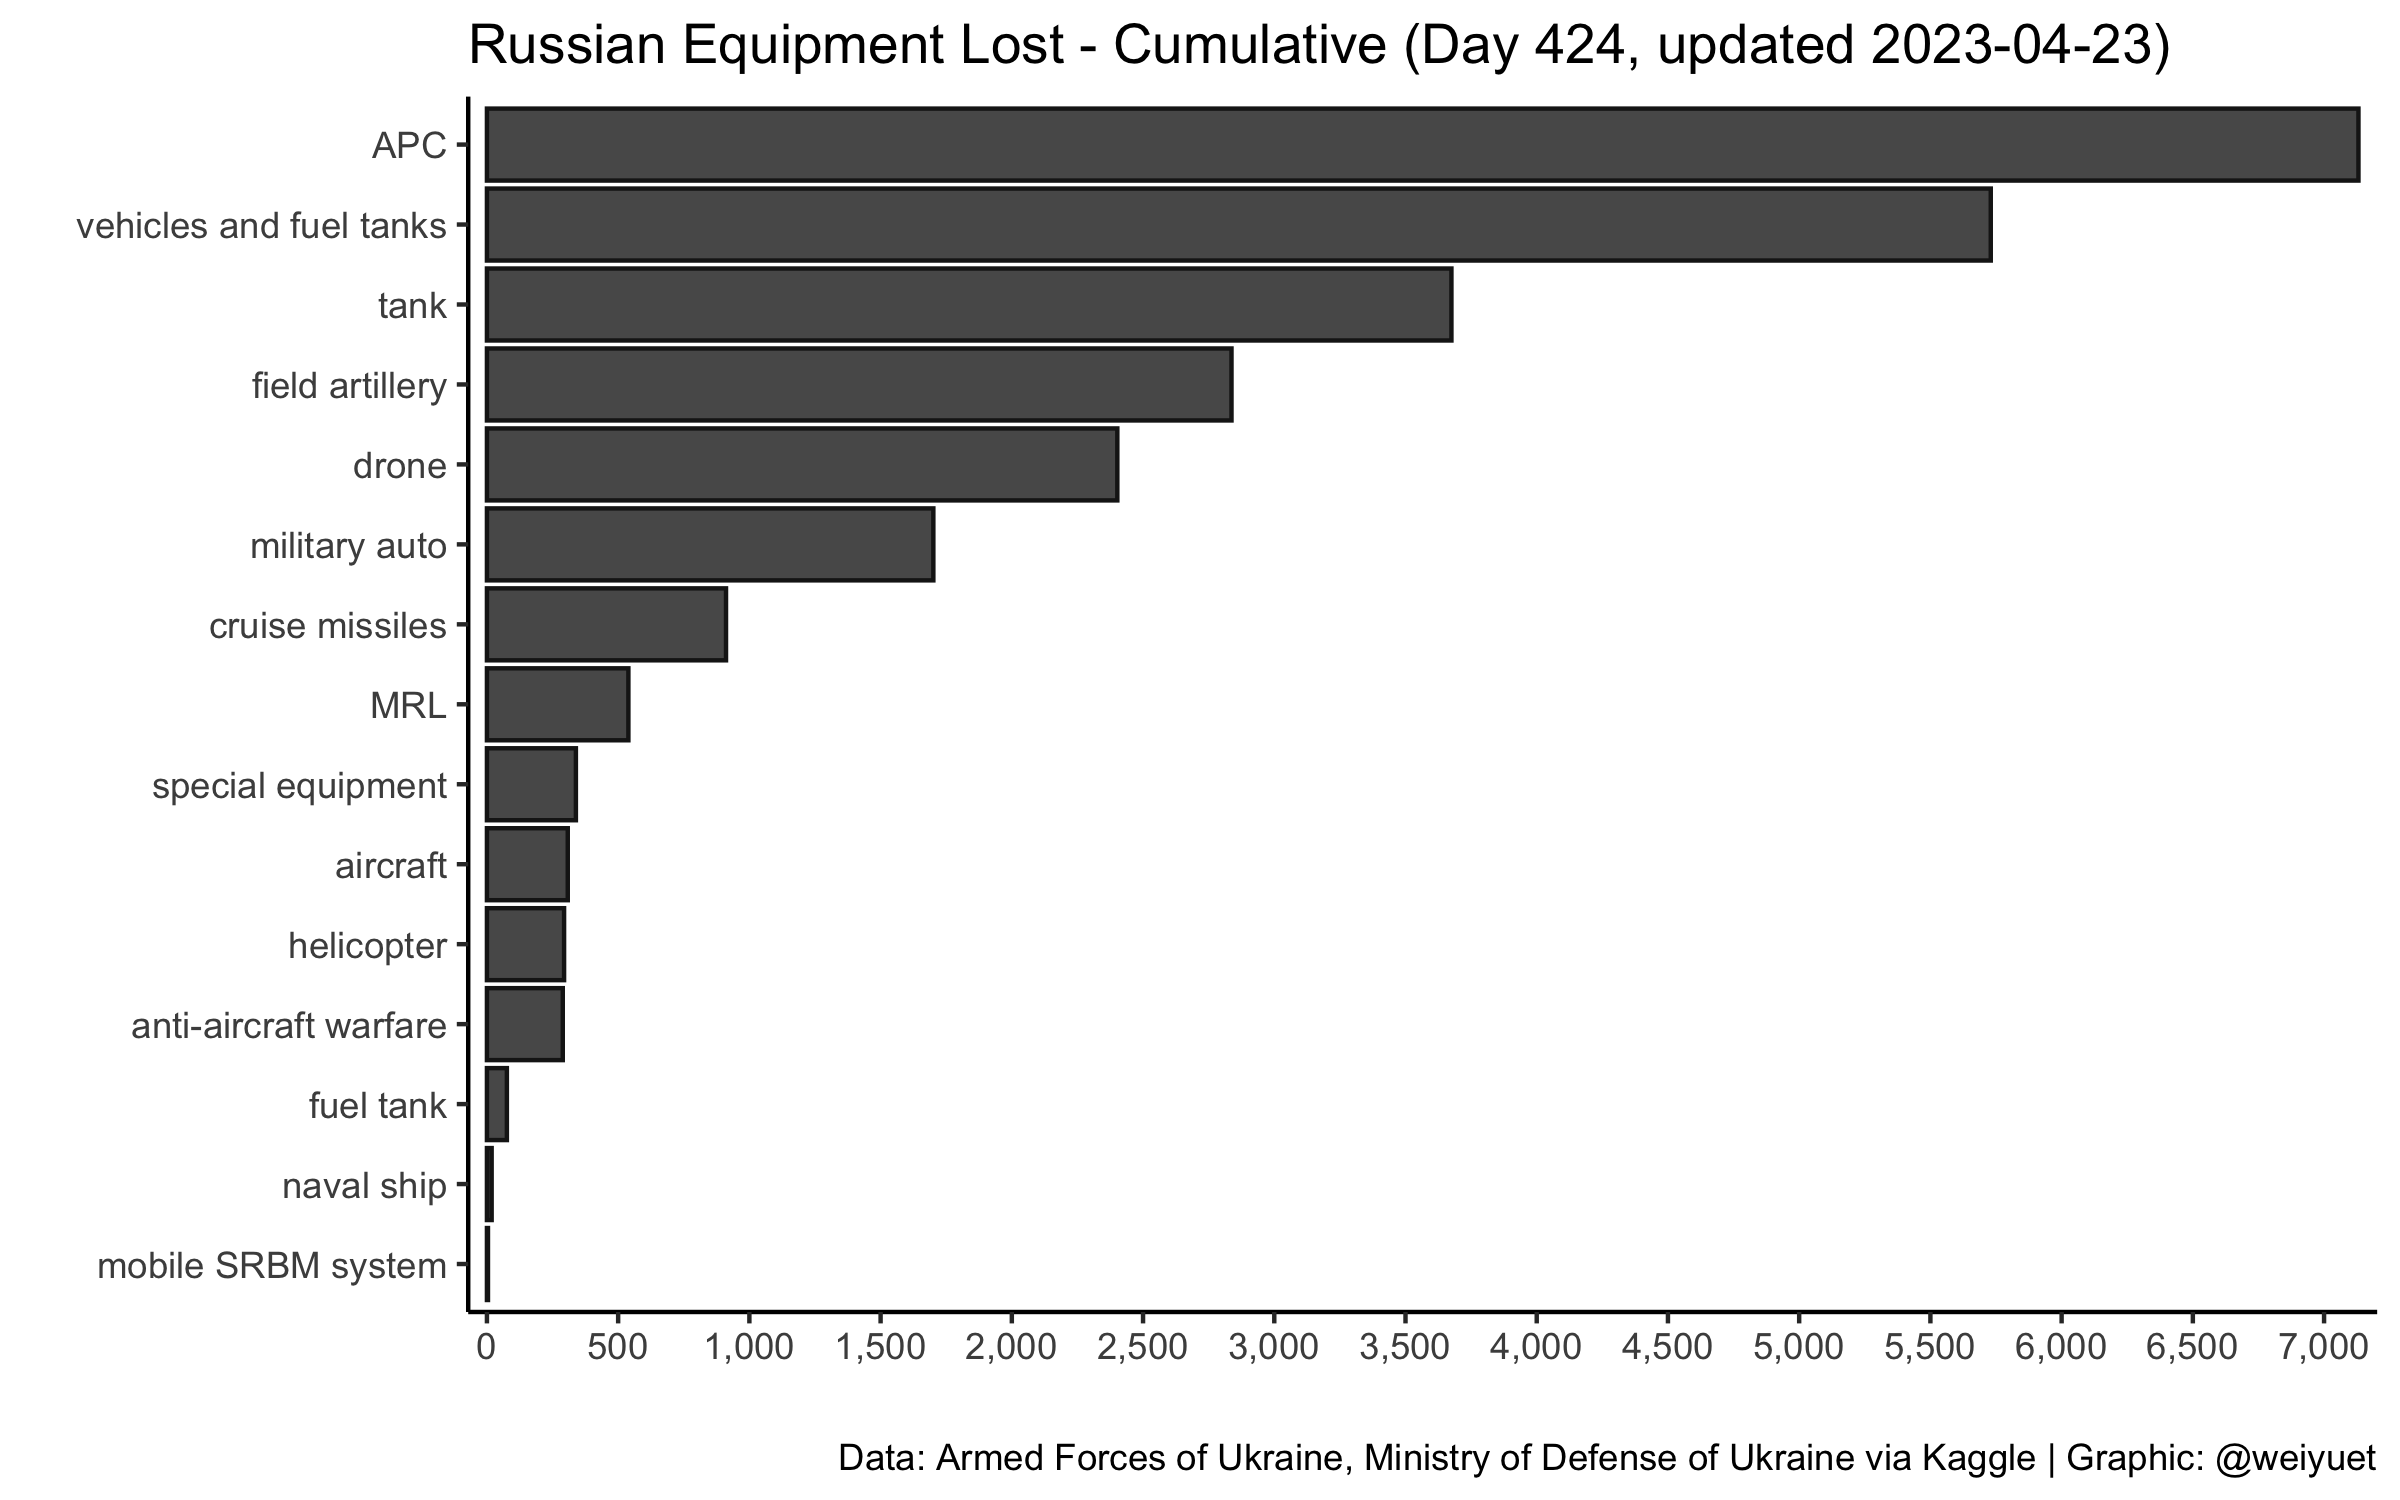
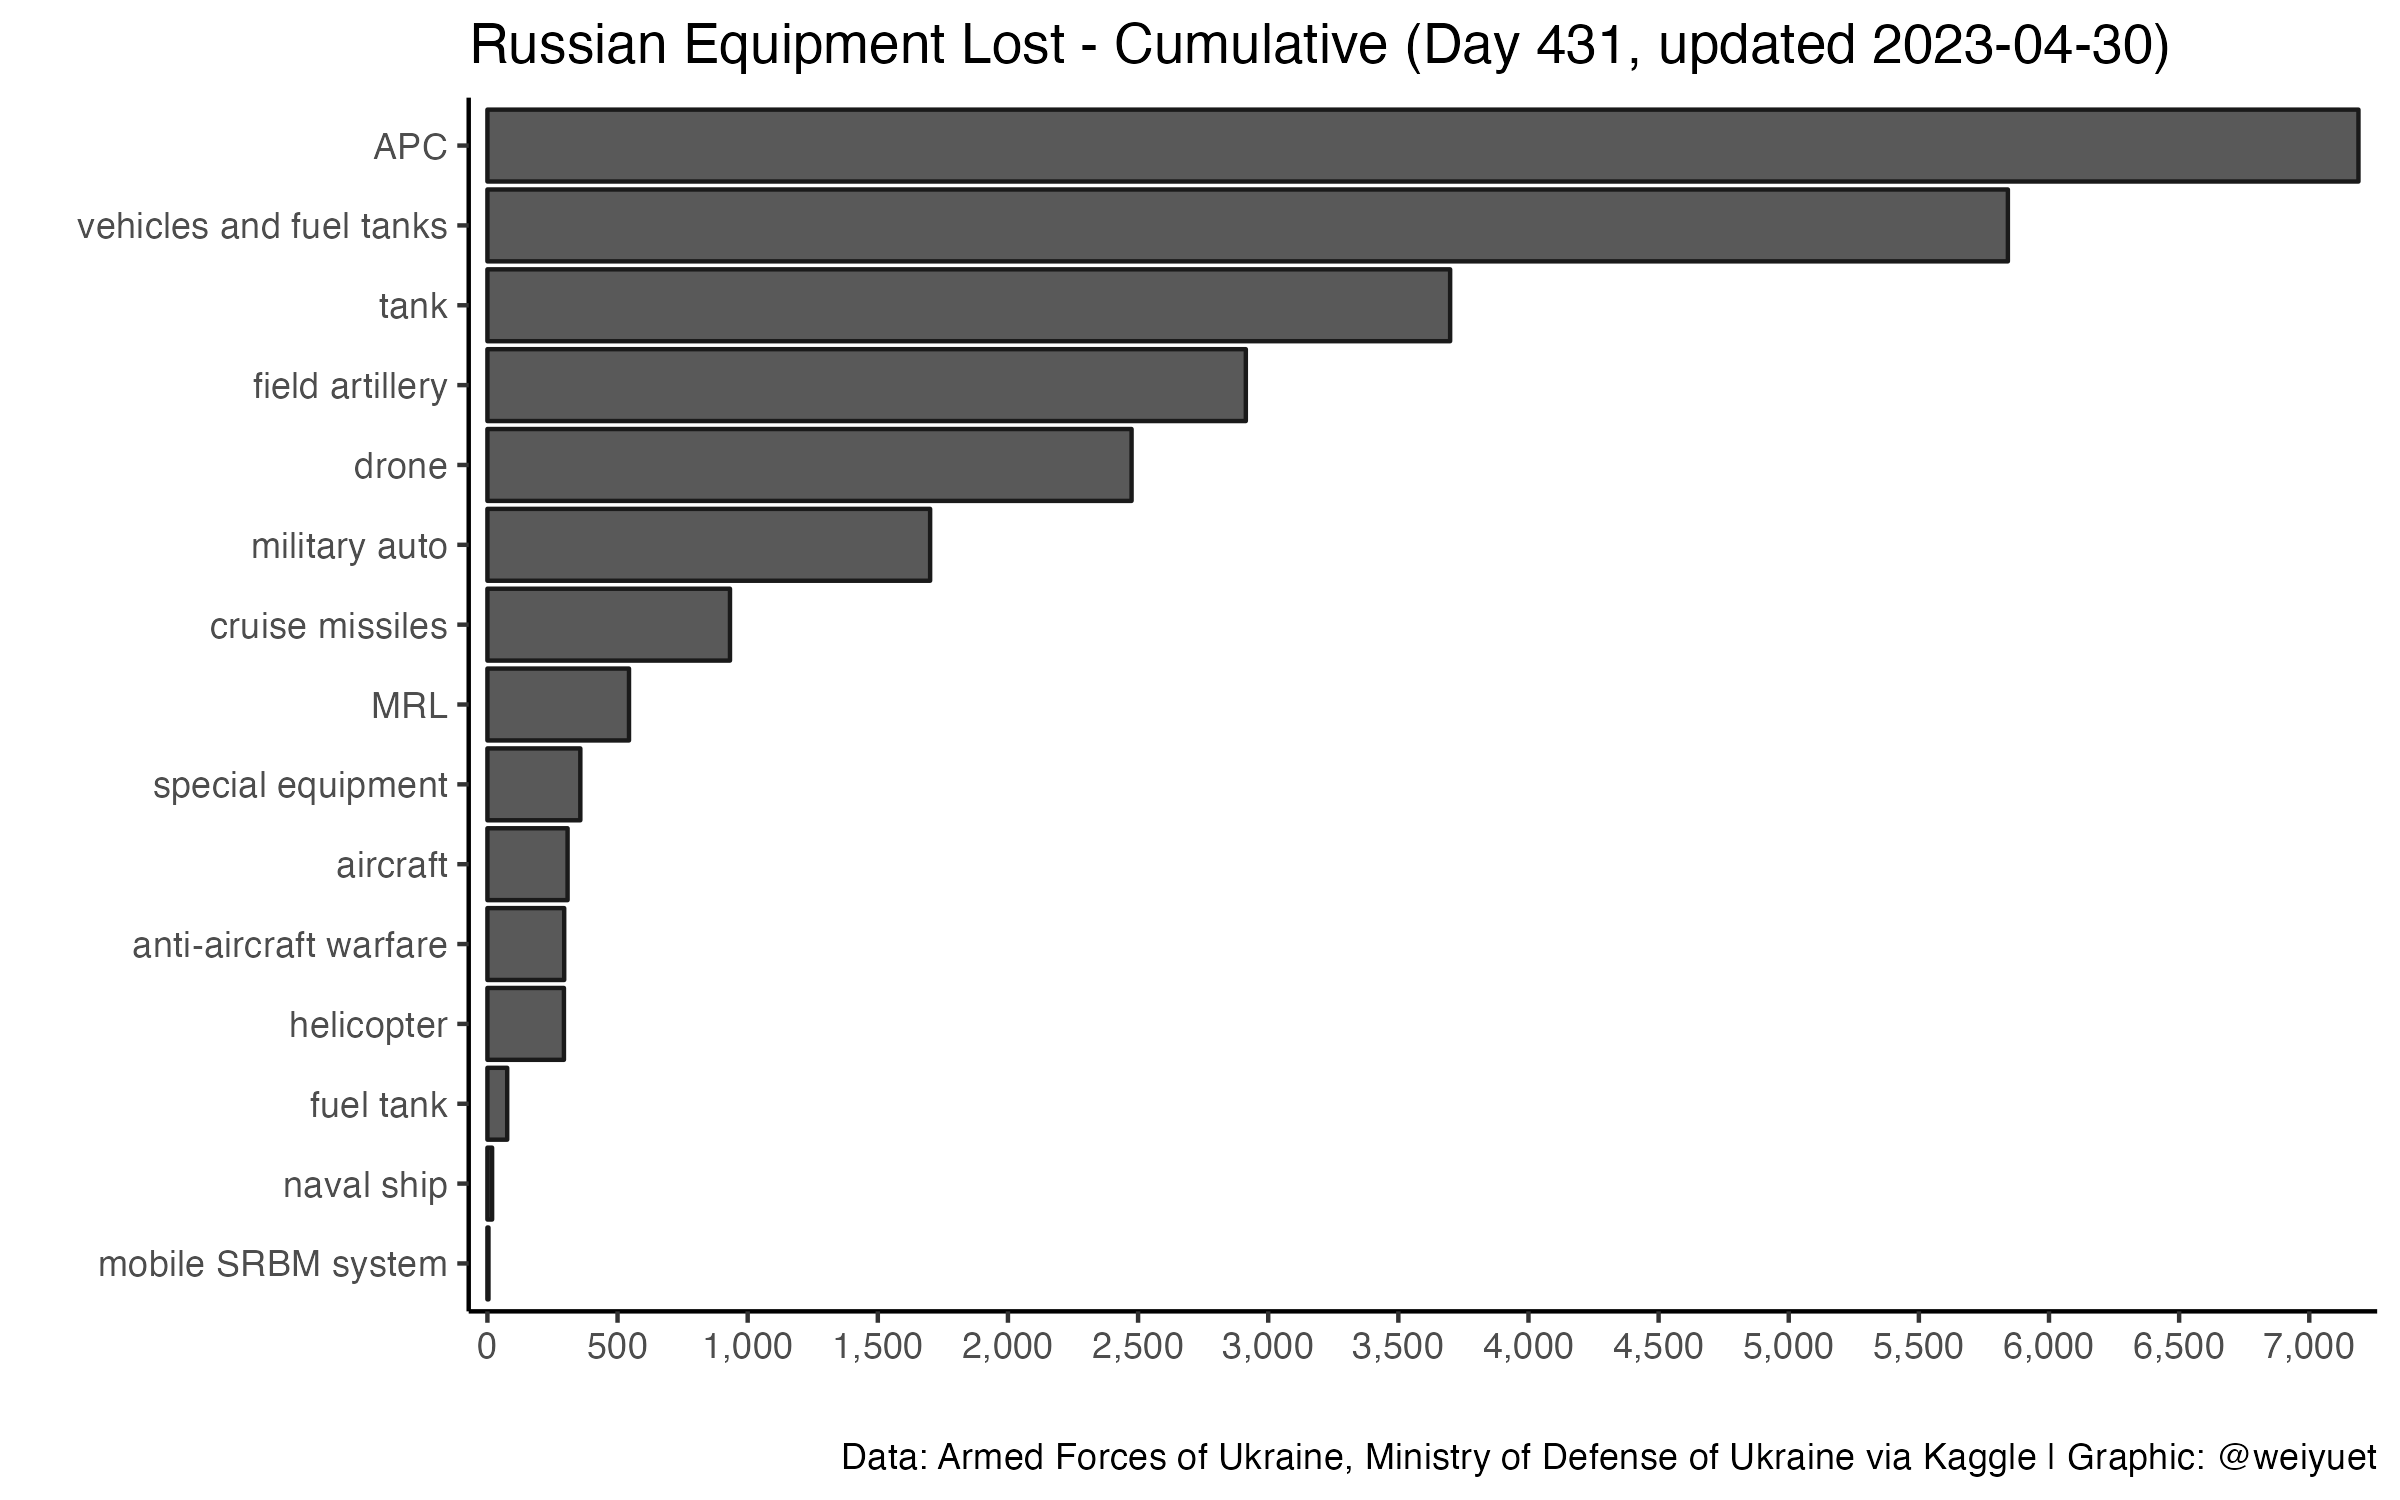
Updated 2 May

diff --git a/README.md b/README.md
@@ -6,7 +6,7 @@ Wong Wei Yuet 2022-05-26
 
   - War casualty data updated daily from [`Petro Ivanyuk's Kaggle`](https://www.kaggle.com/datasets/piterfm/2022-ukraine-russian-war). All data is official and put together by `Petro`
 
-Updated: 2023-04-24
+Updated: 2023-05-02
 
 ## Summary of Conflict
 
